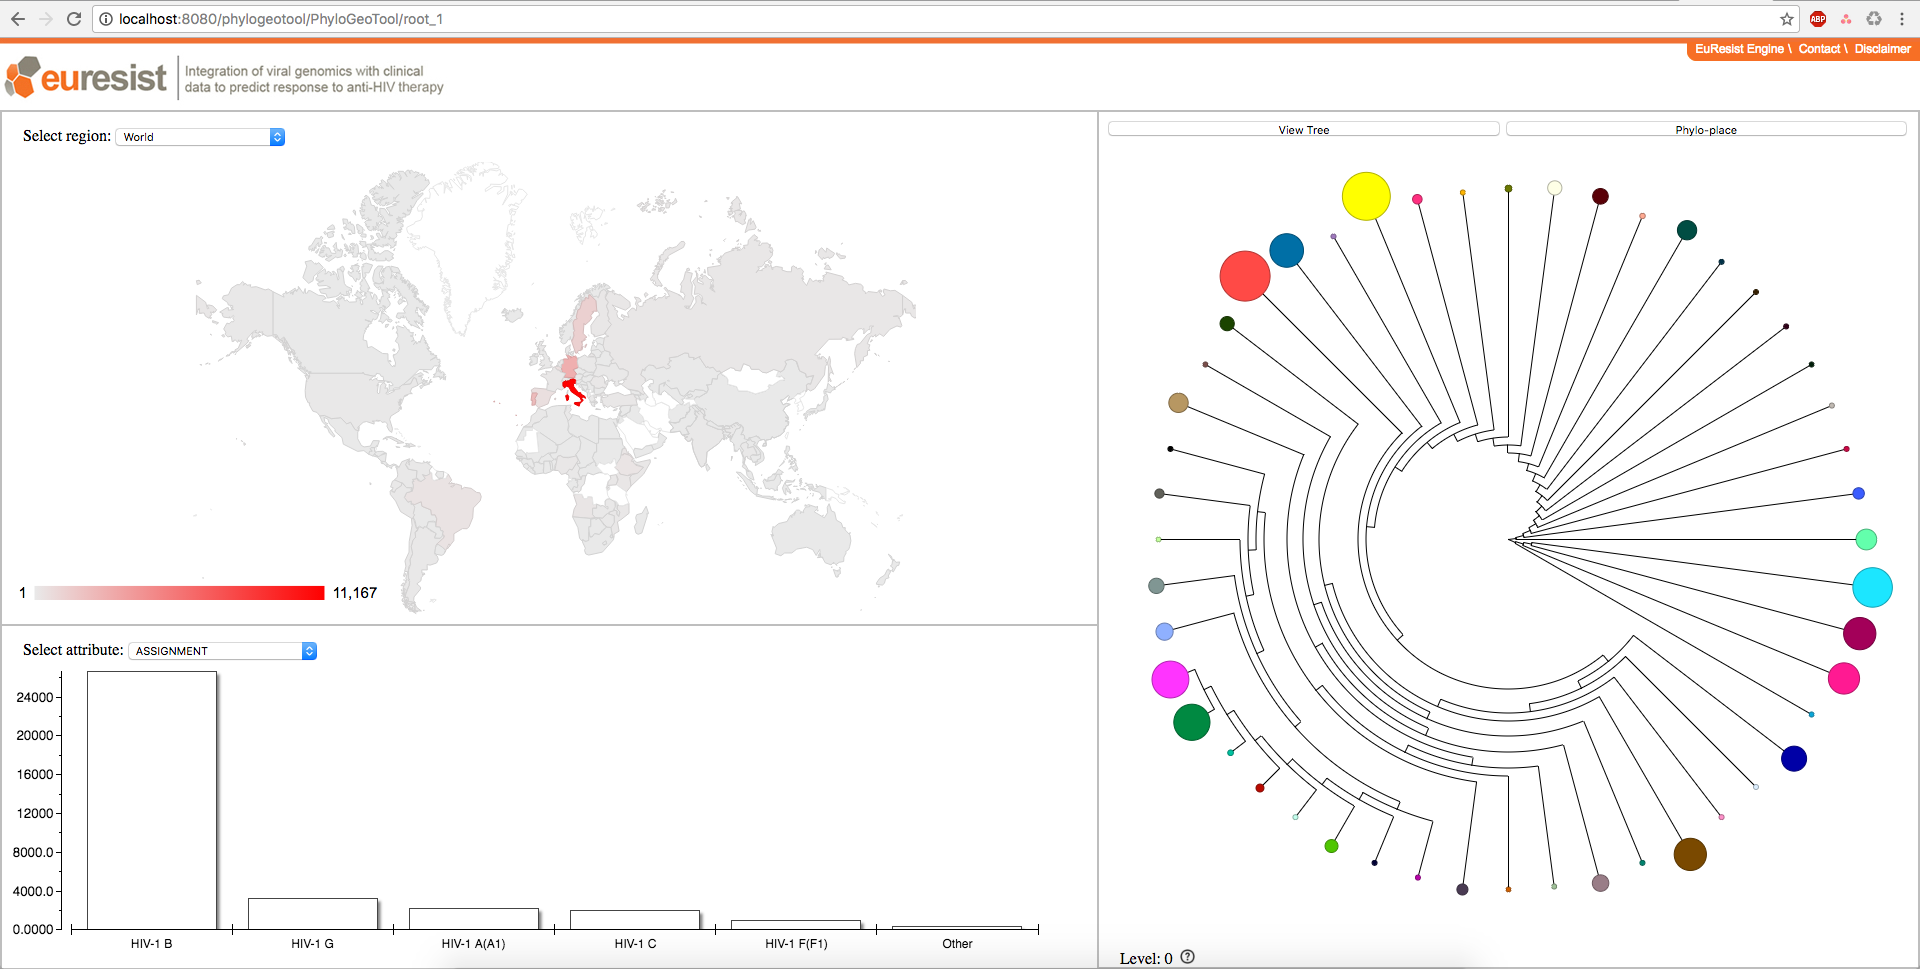
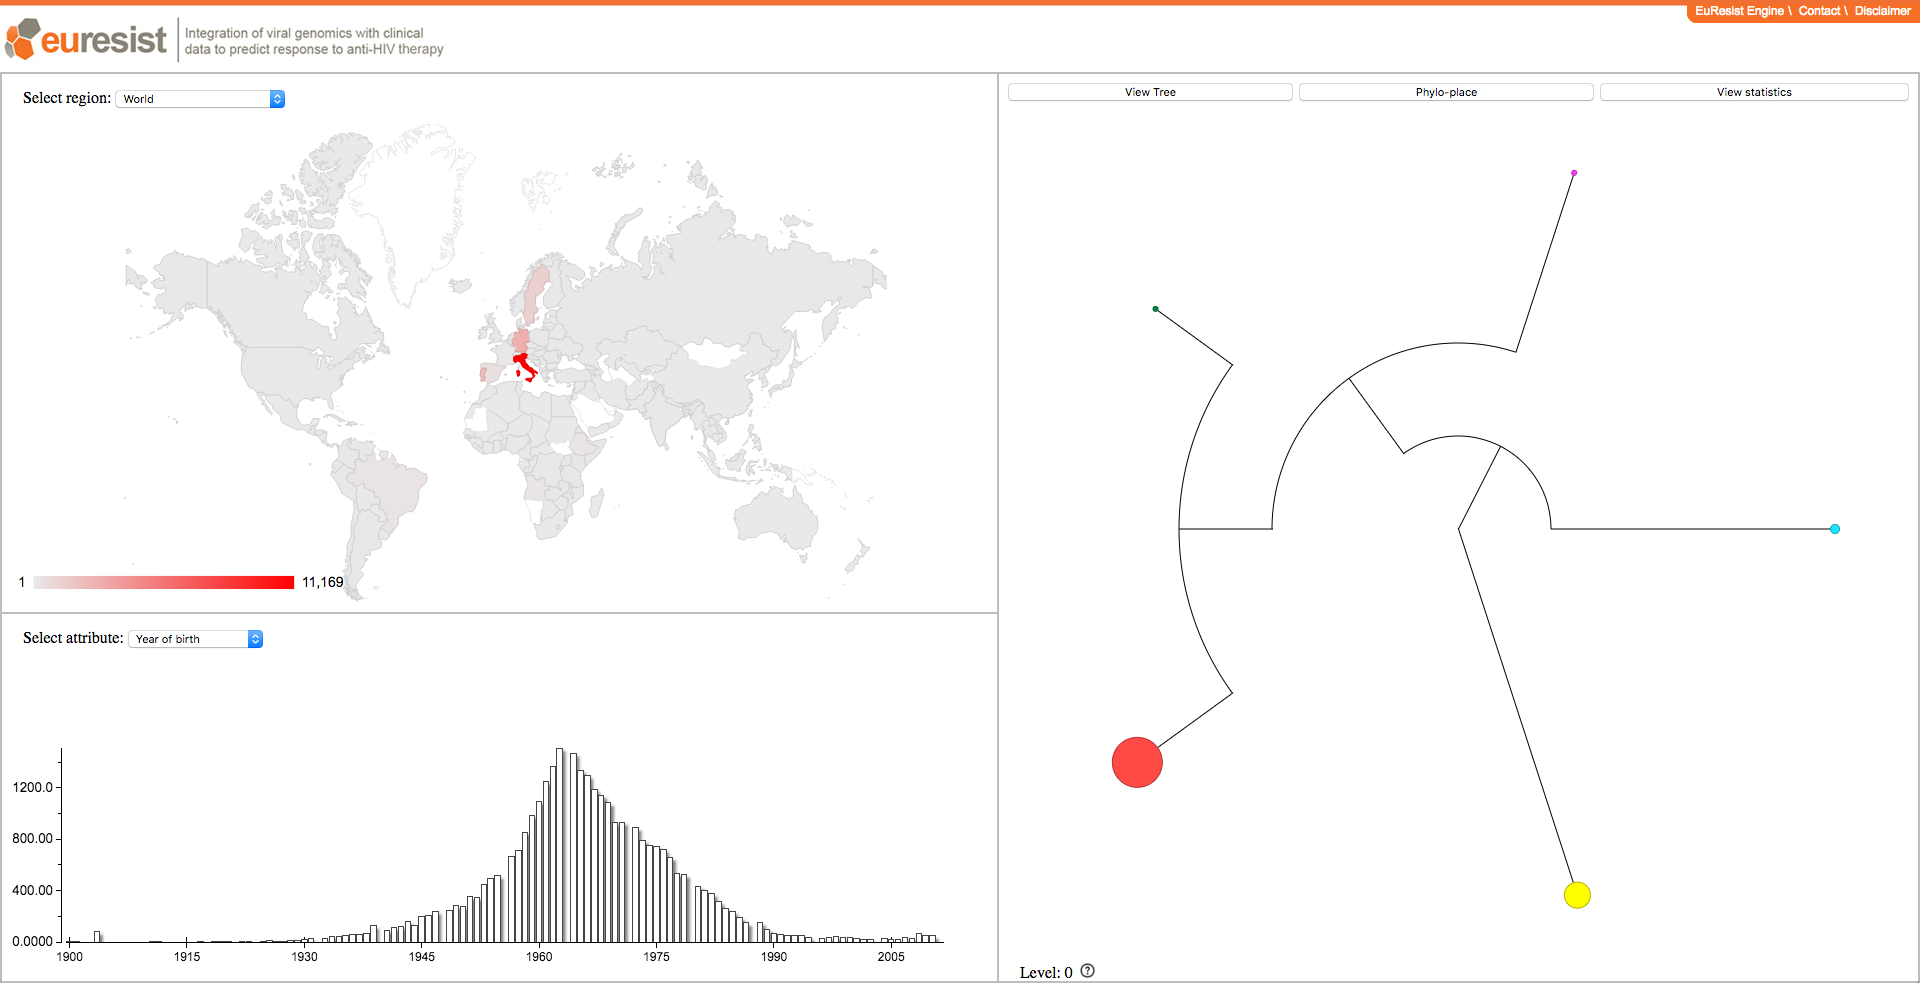
Updated the text and images in the UserManual

diff --git a/doc/UserManual.tex b/doc/UserManual.tex
@@ -53,7 +53,7 @@ User Reference Manual} % Subtitle
 
 This document explains how to use the PhyloGeoTool software. PhyloGeoTool is a web application that is installed on a web server, and can be accessed via a web browser. 
 Most users will access a publicly accessible instance of the PhyloGeoTool that was already deployed on a web server. 
-An example of a publicly available instance of the PhyloGeoTool that allows to explore a large HIV cohort (i.e. EuResist \cite{Zazzi2012}) can be found at \url{http://regatools.med.kuleuven.be/phylogeotool/PhyloGeoTool}.
+An example of a publicly available instance of the PhyloGeoTool that allows to explore a large HIV cohort (i.e. EuResist \cite{Zazzi2012}) can be found at \url{http://phylogeotool.gbiomed.kuleuven.be/euresist/}.
 It is however also possible to install your own instance of the PhyloGeoTool; for this, we refer to the installation manual \footnote{(TODO: add link)}.
 
 
@@ -62,13 +62,14 @@ It is however also possible to install your own instance of the PhyloGeoTool; fo
 PhyloGeoTool implements a visual method to explore large phylogenetic trees and to depict characteristics of strains and clades, including their geographic context and other attributes, in an interactive way.
 The tool also provides the possibility to insert new virus strains into the existing phylogenetic tree, allowing users to gain insight in the placement of such new strains without the need to reconstruct the phylogeny.
 
-A particular PhyloGeoTool instance can be used by navigating the browser to the URL at which this instance has been deployed. For example, the aforementioned public EuResist instance of the PhyloGeoTool is deployed at \url{http://regatools.med.kuleuven.be/phylogeotool/PhyloGeoTool}, and thus, you should navigate your browser to this exact URL.
+A particular PhyloGeoTool instance can be used by navigating the browser to the URL at which this instance has been deployed. For example, the aforementioned public EuResist instance of the PhyloGeoTool is deployed at \url{http://phylogeotool.gbiomed.kuleuven.be/euresist/}, and thus, you should navigate your browser to this exact URL.
 \footnote{TODO: explaining what instances are all about, is easier if you can mention more than 1 instance. 
 Perhaps Lize will have a HCV/DENV instance ready soon, that we can add here, but maybe we should both deploy the EuResist and PT tool, such that we can list them in this section.}
 Note that any browser (Chrome, Firefox, Internet Explorer) should do; if you experience any problems with your browser, please contact us (\footnote{TODO: link to the contact section}).
 
 
 \section{Core functionality and user interface}
+\label{sec:core_func_user_interface}
 %TODO: update all images when the software is ready
 %TODO: all images are 400x400px, why not use a percentage, and let the images be their natural dimenions?
 \begin{figure}[H]
@@ -84,7 +85,8 @@ The PhyloGeoTool is divided into different panels (see Figure \ref{fig:initialvi
 \begin{itemize}
   \item The top left panel shows a map where each country is colored according to a gradient, where a darker color signifies that more sequences are originating from this country. 
   A drop-down box allows you to select the geographic region on which you want to focus (e.g. Europe, North America, \ldots).
-  \item The bottom left panel shows a bar chart which shows a certain attribute (i.e. characteristic) from all sequences currently visualized in the tree panel on the right. 
+  \item The bottom left panel shows a histogram or bar chart depending on the chosen attribute. If the attribute is represented by a continuous dataset, a histogram will be shown while a discrete dataset is displayed by a bar chart plot.
+  The histogram or bar chart shows a certain attribute (i.e. characteristic) from all sequences currently visualized in the tree panel on the right. 
   A drop-down box allows you to select the attribute to be plotted on the bar chart. 
   The attributes available for selection depend on the attributes made available by the PhyloGeoTool instance.
   \item The right panel shows a top-level view of the clustering of the tree (initially the root of the tree), as determined by our clustering algorithm. %GB: need to say where the readers can find our clustering algorithm
@@ -101,13 +103,13 @@ The PhyloGeoTool is divided into different panels (see Figure \ref{fig:initialvi
 \label{fig:hovernode}
 \end{figure}
 
-When the user hovers the mouse over a node in the cluster phylogeny, both the attribute bar chart and the map are updated. 
-The attribute bar chart will be extended (i.e. extra bars will be shown for each value) with the data that is located in the cluster over which the mouse hovers. %GB: extended?
+When the user hovers the mouse over a node in the cluster phylogeny, both the attribute histogram or bar chart and the map are updated. 
+The attribute chart will be extended (i.e. extra bars will be shown on top of the original chart for each value) with the data that is located in the cluster over which the mouse hovers. %GB: extended?
 The map, on the other hand, will only show the geographic distribution of the sequences found in the cluster over which the mouse hovers.
 
 When you click on a node in the clustered phylogenetic tree, the PhyloGeoTool will navigate to the clustering of this particular node (i.e. will zoom in on the node on the clustered phylogenetic tree).
 A counter on the bottom left of the cluster panel keeps track of the depth of the navigation. 
-As you can visit a cluster node by clicking it, you can go back to into your navigational path by using the browser’s ’Back’ button.
+As you can visit a cluster node by clicking it, you can go back to into your navigational path by using the browser's 'Back' button.
 This information is also shown when you hover over the '?' which is shown next to 'Level: '
 
 Additionally, the URL encodes the level of descent in the clustered phylogenetic tree. 
@@ -133,7 +135,7 @@ You can select your geographical region of interest in the drop-down box on top 
 \caption{Change the attribute in the drop down box}
 \label{fig:change_attr}
 \end{figure}
-You can select an attribute of interest in the drop-down box on top of the attribute bar chart (see Figure \ref{fig:change_attr}).
+You can select an attribute of interest in the drop-down box on top of the attribute chart (see Figure \ref{fig:change_attr}).
 
 
 \subsection{Visualize the phylogenetic tree}
@@ -145,16 +147,46 @@ You can select an attribute of interest in the drop-down box on top of the attri
 \label{fig:view_tree}
 \end{figure}
 
-When the 'View Tree' button (located at the top of the clustered phylogeny panel) is clicked, a pop-up window is shown (Figure \ref{fig:view_tree}) \footnote{(Update figure with current view)}that visualizes the phylogeny as a radial phylogenetic tree. 
-The colours in the radial tree correspond to the colours of the clusters in the panel showing the clustered phylogenetic tree. %GB: you alternate between American and British English in the document; do you prefer 'color' or 'colour'?
+\subsection{Export the phylogenetic tree}
+\begin{figure}[H]
+\centering
+\includegraphics[scale=0.50]{images/export_tree.PNG}
+\vspace{-0.25cm}
+\caption{Form displaying the preferred settings to export the shown phylogenetic tree.}
+\label{fig:export_tree}
+\end{figure}
 
-From this window, the tree can be exported into various formats (PDF, SVG, NEXUS and PNG) by clicking on the 'Export' button. 
+When the 'View Tree' button (located at the top of the clustered phylogeny panel) is clicked, a pop-up window is shown (Figure \ref{fig:view_tree}) that visualizes the phylogeny as a radial phylogenetic tree. 
+The colours in the radial tree correspond to the colors of the clusters in the panel showing the clustered phylogenetic tree. %GB: you alternate between American and British English in the document; do you prefer 'color' or 'colour'?
+\break
+\break
+On the bottom of the popup window, there are two buttons: 'Export' and 'Exit'.
+The button with label 'Export' will call a window similar to the one shown in Figure \ref{fig:export_tree}. There are three options available that help to customize the export.
+\begin{itemize}  
+\item Color Tree
+\begin{itemize} 
+\item Yes: Download a phylogenetic tree where the clusters shown in the Phylogeotool are colored on top of it.
+\item No: Download a phylogenetic tree with no coloring.
+\end{itemize}
+\item Show node tips
+\begin{itemize} 
+\item Yes: Include leaf names in the phylogenetic tree.
+\item No: Do not include leaf names in the phylogenetic tree.
+\end{itemize}
+\item Output Format: The output format in which you want your tree to be downloaded
+\begin{itemize} 
+\item PDF
+\item PNG
+\item NEXUS
+\item SVG
+\end{itemize}
+\end{itemize}
+
 Note that exports in the NEXUS file format can be visualized in programs such as FigTree (\url{http://tree.bio.ed.ac.uk/software/figtree/}).  
-
 
 \subsection{Automated phylogenetic placement of sequences}
 Phylogenetic placement enables the placement of unknown query sequences onto an existing phylogenetic tree, without the need to re-compute the entire phylogeny (which is a time-consuming process, especially when a large number of sequences is involved). 
-In PhyloGeoTool, we use phylogenetic placement to position new sequences onto the phylogeny, in a reasonable amount of time (i.e. minutes). 
+In the PhyloGeoTool, we use phylogenetic placement to position new sequences onto the phylogeny, in a reasonable amount of time (i.e. minutes). 
 We implement this placement using the well-known pplacer software package \cite{Matsen2010} \footnote{(TODO: should we mention the type of score we use? likelihood-based/posterior-based?)}.
 
 To place your sequences on the cluster phylogeny, click the 'Phylo-place' button in the clustering window. 
@@ -176,7 +208,6 @@ There are two ways to add a new sequence to the tree:
 Currently, we only support the submission of 1 sequence at a time.
 If you submit more than 1 sequence to be added to the phylogenetic tree, a warning will be generated as shown in Figure \ref{fig:pplacer-warning}.
 
-
 \begin{figure}[H]
 \centering
 \includegraphics[scale=0.50]{images/pplacer-warning.png}
@@ -185,7 +216,16 @@ If you submit more than 1 sequence to be added to the phylogenetic tree, a warni
 \label{fig:pplacer-warning}
 \end{figure}
 
+Once the pplacer process finished you can review the result by clicking the link that is sent to you by email.
+You will be taken to the original PhyloGeoTool webpage (such as described in Section \ref{sec:core_func_user_interface}) with this difference that the cluster, which contains the pplaced sequence, is surrounded by a dashed line (see Figure \ref{fig:pplacer-view}). 
 
+\begin{figure}[H]
+\centering
+\includegraphics[scale=0.1875]{images/pplaced_sequence.png}
+\vspace{-0.75cm}
+\caption{Start and main view of the PhyloGeoTool with a pplaced sequence.}
+\label{fig:pplacer-view}
+\end{figure}
 
 \section{Example: exploring a large HIV-1 dataset}
 
@@ -207,8 +247,8 @@ Video scenario:\\
 % once published: write something like 
 % Please cite ....
 
-Phylogeotool email, 
-
+The PhyloGeoTool is developed and maintained by the Rega Institute KU Leuven.
+You can contact us on \href{mailto:phylogeotool@kuleuven.be}{phylogeotool@kuleuven.be}
 
 
 
